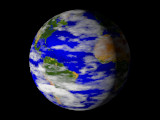
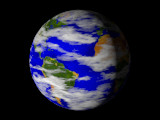
V1.2
Rotating clouds

Changed region(s): [[0.1562, 0.075, 0.75, 0.925]]

diff --git a/theearth.html b/theearth.html
@@ -7,7 +7,7 @@
 
 <body>
 
-<h2>TheEarth 1.1</h2>
+<h2>TheEarth 1.2</h2>
 This object comprises a simple scene file and a choice of 3 copyright free images of the earth from <a href="https://www.evl.uic.edu/pape/data/Earth/">https://www.evl.uic.edu/pape/data/Earth/</a>. The scene file maps an image onto a sphere and optionally adds clouds.
 <a href="https://www.evl.uic.edu/pape/data/Earth/">https://www.evl.uic.edu/pape/data/Earth/</a> also contains higher resolution images than those incorporated in this object and various other earth images derived from different data sources. All of the images there are in a cylindrical (latitude/longitude) projection, and are suitable for <var>uv</var> mapping to a sphere.
 <p>
@@ -58,7 +58,7 @@ The 3 images included in the download are:
 <h2 id="About">About TheEarth</h2>
 
 <address>
- <p>The SDL code is copyright © 2005, 2007 Chris Bartlett and © 2023 Richard Callwood III. Some rights reserved. The image maps are public domain in the United States.
+ <p>The SDL code is copyright © 2005, 2007 Chris Bartlett and © 2023, 2024 Richard Callwood III. Some rights reserved. The image maps are public domain in the United States.
  <p>This library is free software; you can redistribute it and/or modify it under the terms of the <a href="https://www.gnu.org/licenses/old-licenses/lgpl-2.1.html" target="_blank">GNU Lesser General Public License version 2.1</a> as published by the Free Software Foundation.
  <p>This library is distributed in the hope that it will be useful, but WITHOUT ANY WARRANTY; without even the implied warranty of MERCHANTABILITY or FITNESS FOR A PARTICULAR PURPOSE.
 </address>
